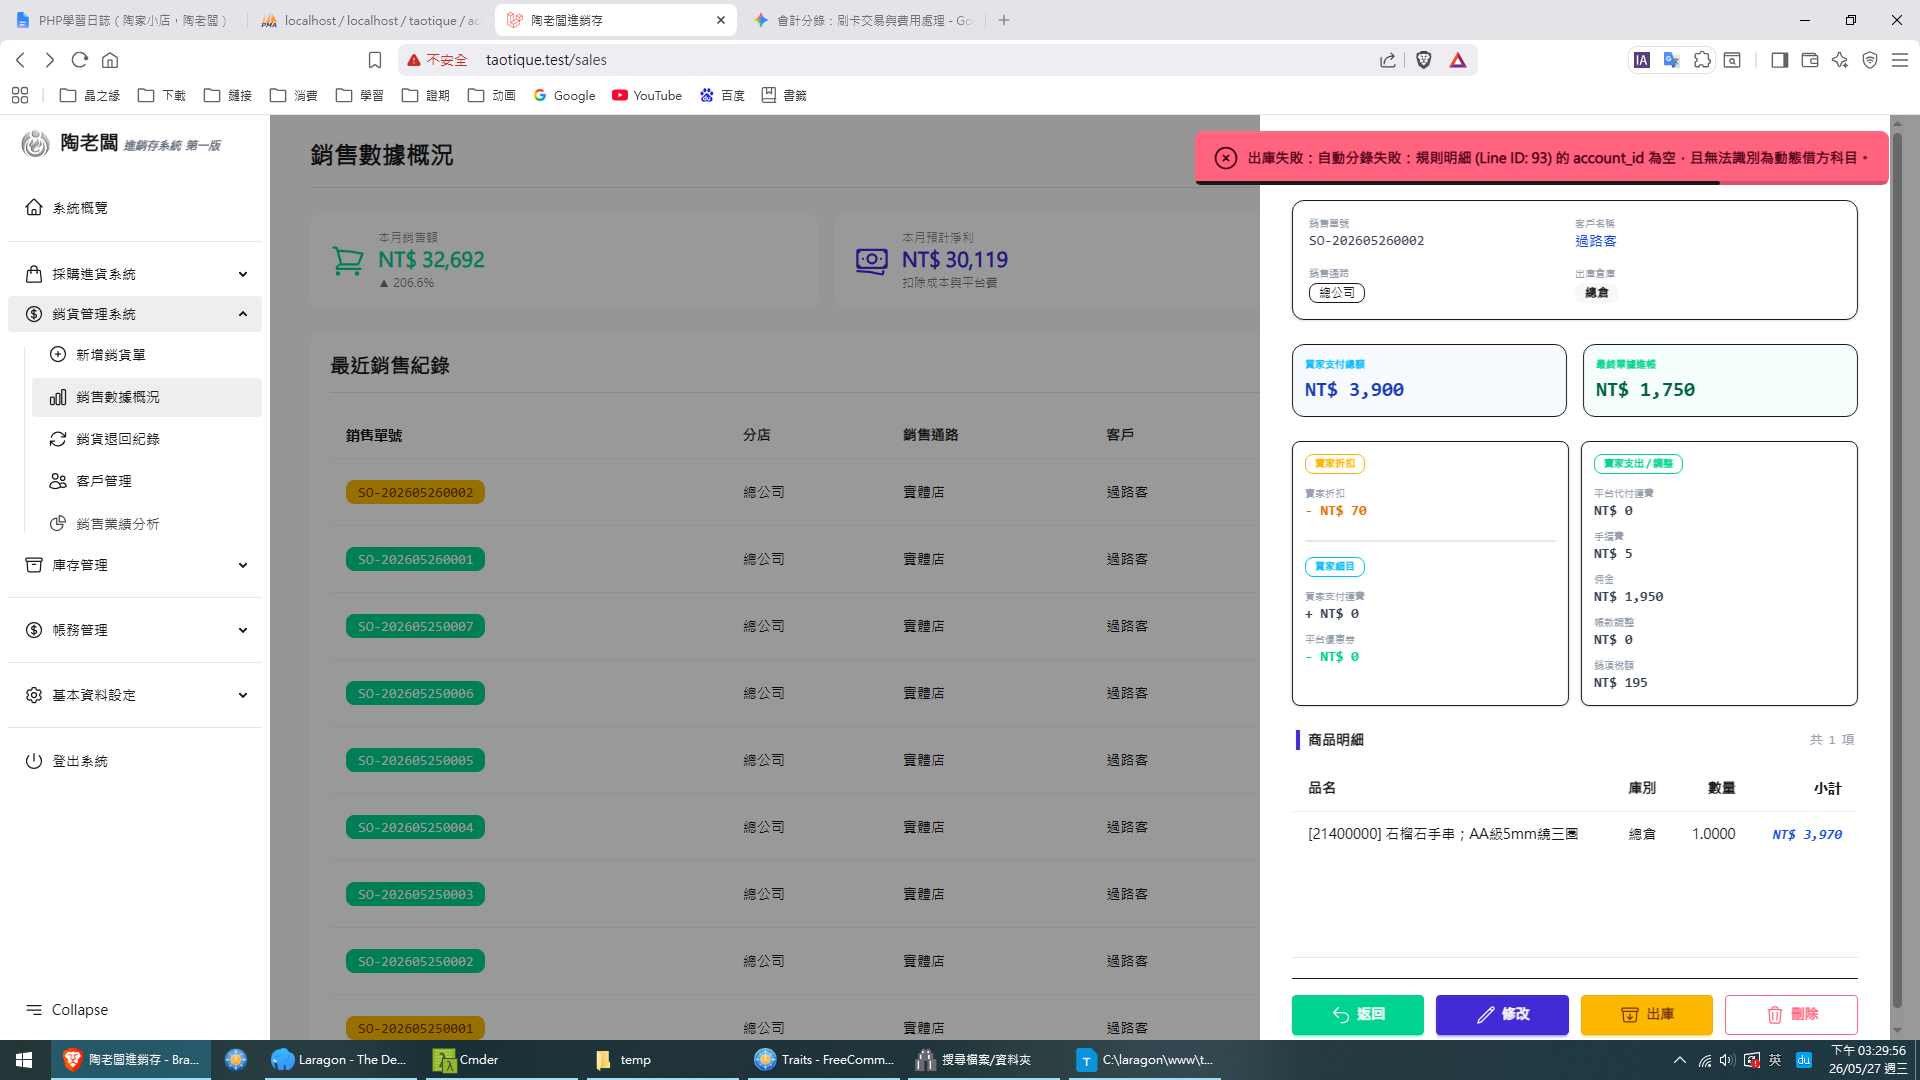
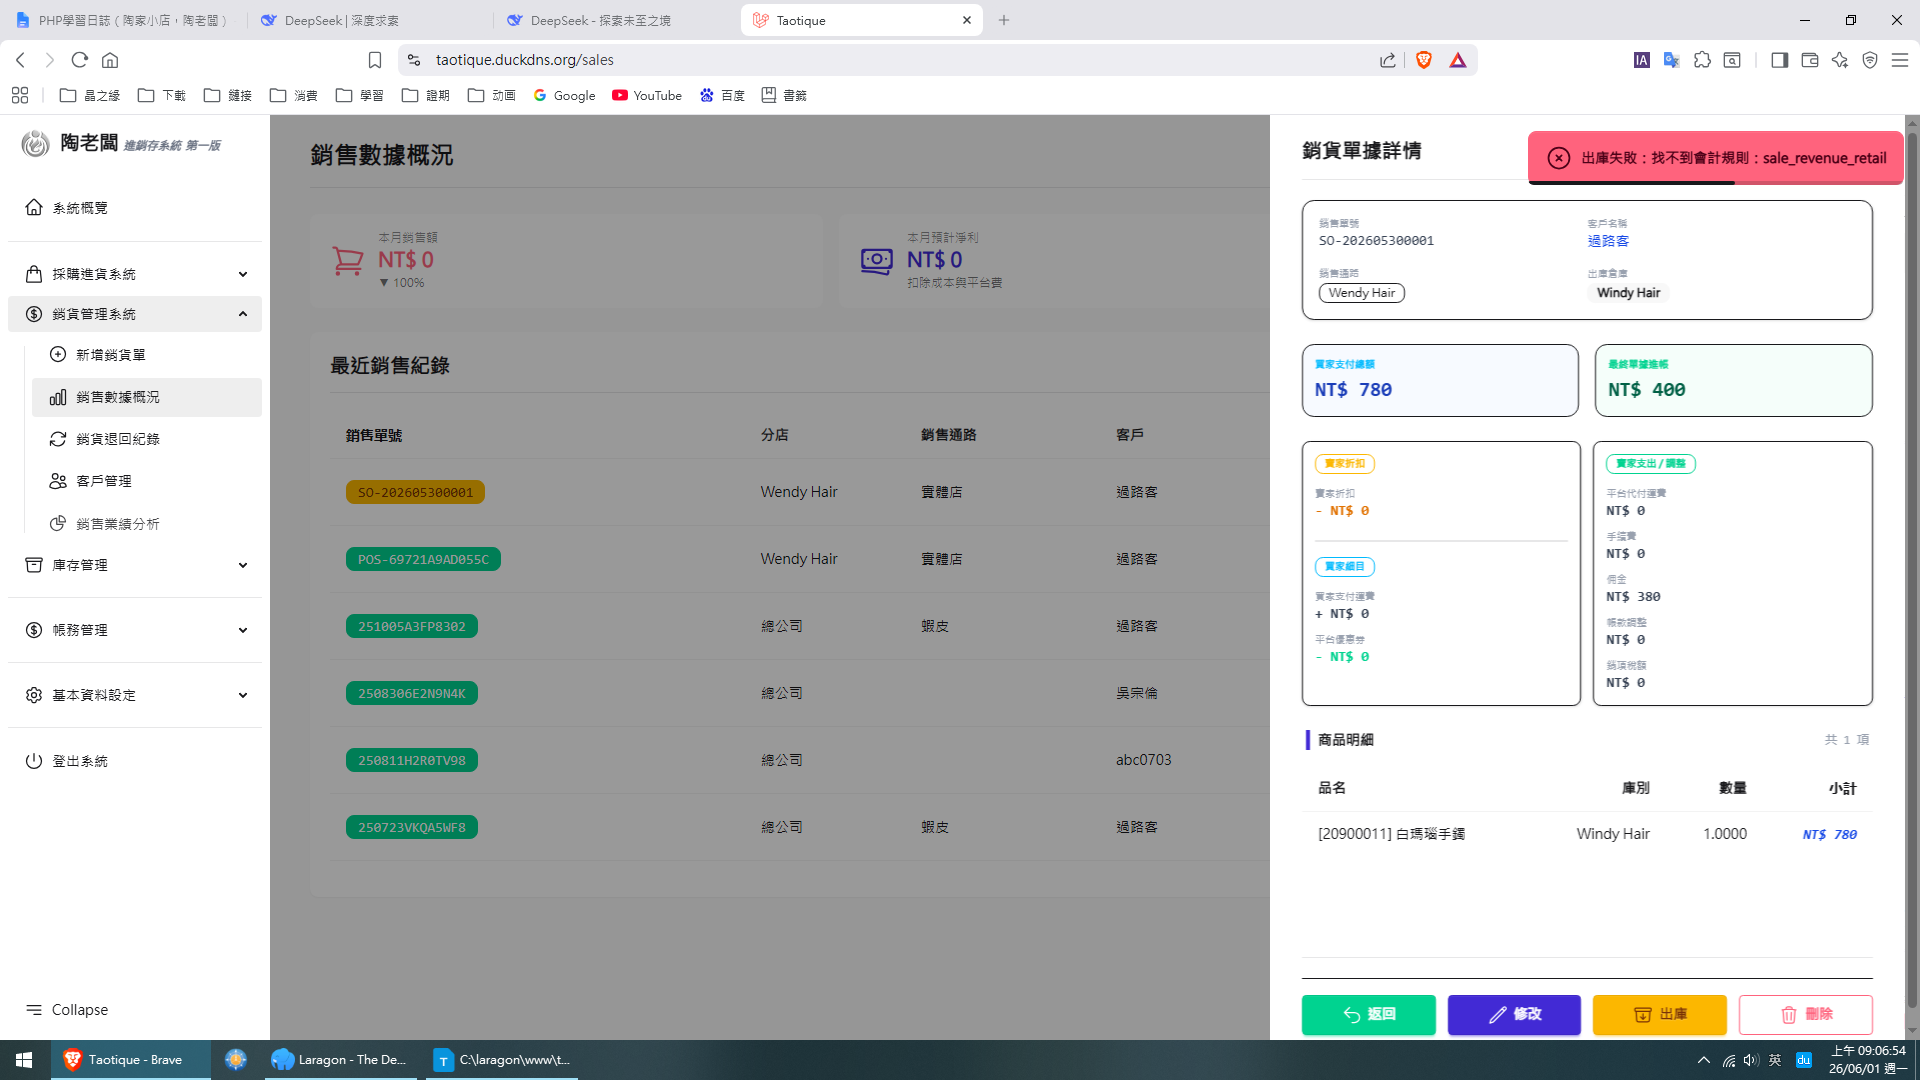
fix:(sale)出庫失敗，找不到會計規則：sale_revenue_retail。取消取得規則條件中的shop_id；刪除Index多餘的processStockOut（model Sale已存在）

diff --git a/app/Livewire/Sales/Index.php b/app/Livewire/Sales/Index.php
@@ -152,95 +152,6 @@ class Index extends Component
         }
     }
 	
-	/**
-	 * 扣庫存
-	 */
-	public function processStockOut(int $saleId, AccountingService $accountingService)
-    {
-        try {
-            // 💡 1. 於資料庫事務開始前獲取「是否允許負庫存」的全域配置
-            $allowNegative = (bool) Setting::get('allow_negative_inventory', false);
-
-            DB::transaction(function () use ($saleId, $allowNegative, $accountingService) {
-                // 💡 2. 併發防護：行級鎖定當前銷售單主表，防止高頻點擊造成的重複出庫
-                $sale = Sale::with(['items', 'fees'])->lockForUpdate()->findOrFail($saleId);
-
-                // 💡 3. 狀態判定變更：由原本的檔案標記改為嚴謹的狀態機校驗
-                if ($sale->status === 'completed') {
-                    throw new \Exception('此銷售單據已完成出庫，不可重複操作。');
-                }
-
-                if ($sale->status === 'cancelled') {
-                    throw new \Exception('此銷售單據已作廢，無法執行出庫。');
-                }
-
-                // 💡 4. 逐項扣減庫存（零售實體商品一對一精準扣減）
-                foreach ($sale->items as $item) {
-                    $inventory = Inventory::where('product_id', $item->product_id)
-                        ->where('warehouse_id', $sale->warehouse_id)
-                        ->lockForUpdate()
-                        ->first();
-
-                    if ($inventory) {
-                        // 檢查庫存充足性（若不允許負庫存）
-                        if (!$allowNegative && bccomp($inventory->quantity, $item->quantity, 4) < 0) {
-                            $productName = $item->product->name ?? '未命名商品';
-                            throw new \Exception("商品 [{$productName}] 庫存不足！當前餘額: {$inventory->quantity}");
-                        }
-                        
-                        // 高頻交易下強制使用 bcsub 進行嚴謹運算，防止浮點數失真
-                        $newQty = bcsub($inventory->quantity, $item->quantity, 4);
-                        $inventory->update(['quantity' => $newQty]);
-                    } else {
-                        // 若無歷史庫存紀錄，若不允許負庫存則直接報錯
-                        if (!$allowNegative) {
-                            $productName = $item->product->name ?? '未命名商品';
-                            throw new \Exception("商品 [{$productName}] 於該倉庫內無庫存紀錄。");
-                        }
-
-                        // 建立初始負庫存
-                        Inventory::create([
-                            'shop_id'      => $sale->shop_id ?? 1,
-                            'warehouse_id' => $sale->warehouse_id,
-                            'product_id'   => $item->product_id,
-                            'quantity'     => bcsub('0', $item->quantity, 4),
-                        ]);
-                    }
-                }
-
-                // 💡 5. 更新單據生命週期狀態至「已完成（已出庫）」
-                $sale->update([
-                    'status'         => 'completed',
-                    'stocked_out_at' => now(), // 保留時間戳作為審計與報表分析輔助
-                ]);
-
-                // 💡 6. 串接規則引擎自動分錄過帳（分開處理：零售收入確認 與 銷貨成本結轉）
-                // 抓取您利用 Seeder 清洗進去的會計分錄規則
-                $revenueRules = AccountingRule::getRulesForEvent('sale_revenue_retail', $sale->shop_id ?? 1);
-                $costRules    = AccountingRule::getRulesForEvent('sale_cost', $sale->shop_id ?? 1);
-				$feeRules     = AccountingRule::getRulesForEvent('sale_fee', $sale->shop_id ?? 1);
-
-                if (!empty($revenueRules)) {
-                    $accountingService->postFromRules($sale, $revenueRules, 'sale_revenue');
-                }
-                if (!empty($costRules)) {
-                    $accountingService->postFromRules($sale, $costRules, 'sale_cost');
-                }
-				if (!empty($feeRules)) {
-    $accountingService->postFromRules($sale, $feeRules, 'sale_fee');
-}
-            });
-
-            $this->success("銷售單已成功出庫，且對齊會計準則自動結轉過帳！");
-            $this->drawer = false; 
-            $this->selectedSale = null;
-
-        } catch (\Exception $e) {
-            // 完美捕捉包含會計引擎（Line 93 缺失或未平衡等）的所有異常，回傳前端錯誤氣泡
-            $this->error('出庫失敗：' . $e->getMessage());
-        }
-    }
-		
     public function render()
     {
         // --- 1. 統計數據邏輯 ---

diff --git a/app/Models/Sale.php b/app/Models/Sale.php
@@ -93,7 +93,6 @@ class Sale extends Model
         };
         
         $rule = AccountingRule::where('event_type', $eventTypeKey)
-            ->where('shop_id', $this->shop_id)
             ->where('is_active', true)
             ->with(['lines' => fn($q) => $q->orderBy('sort_order')])
             ->first();
